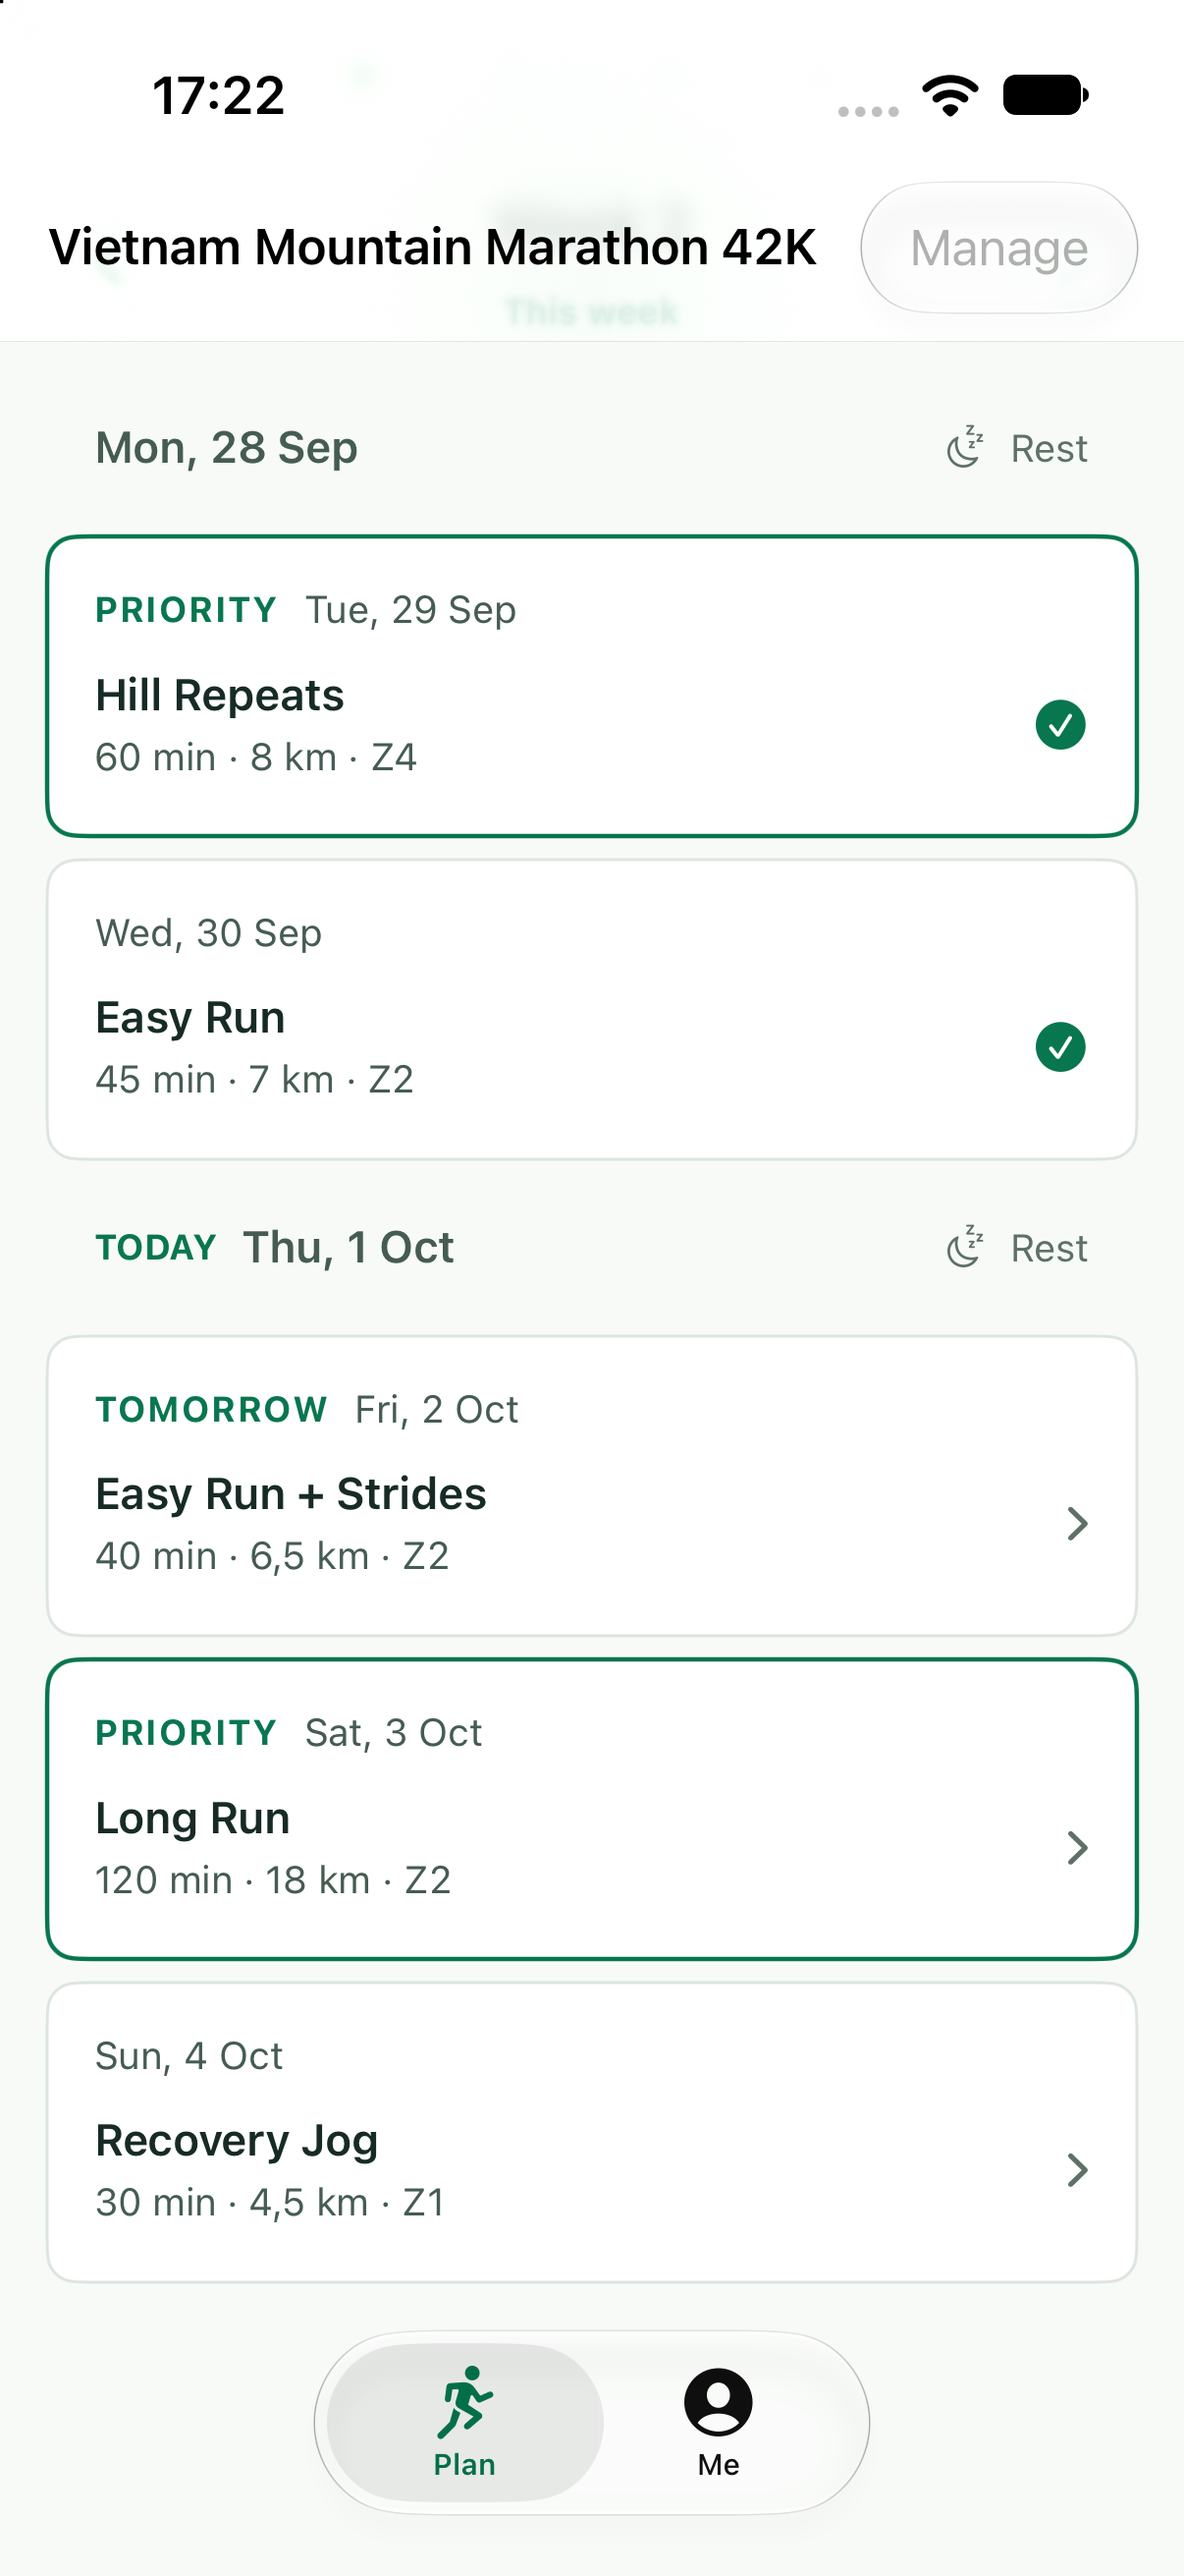
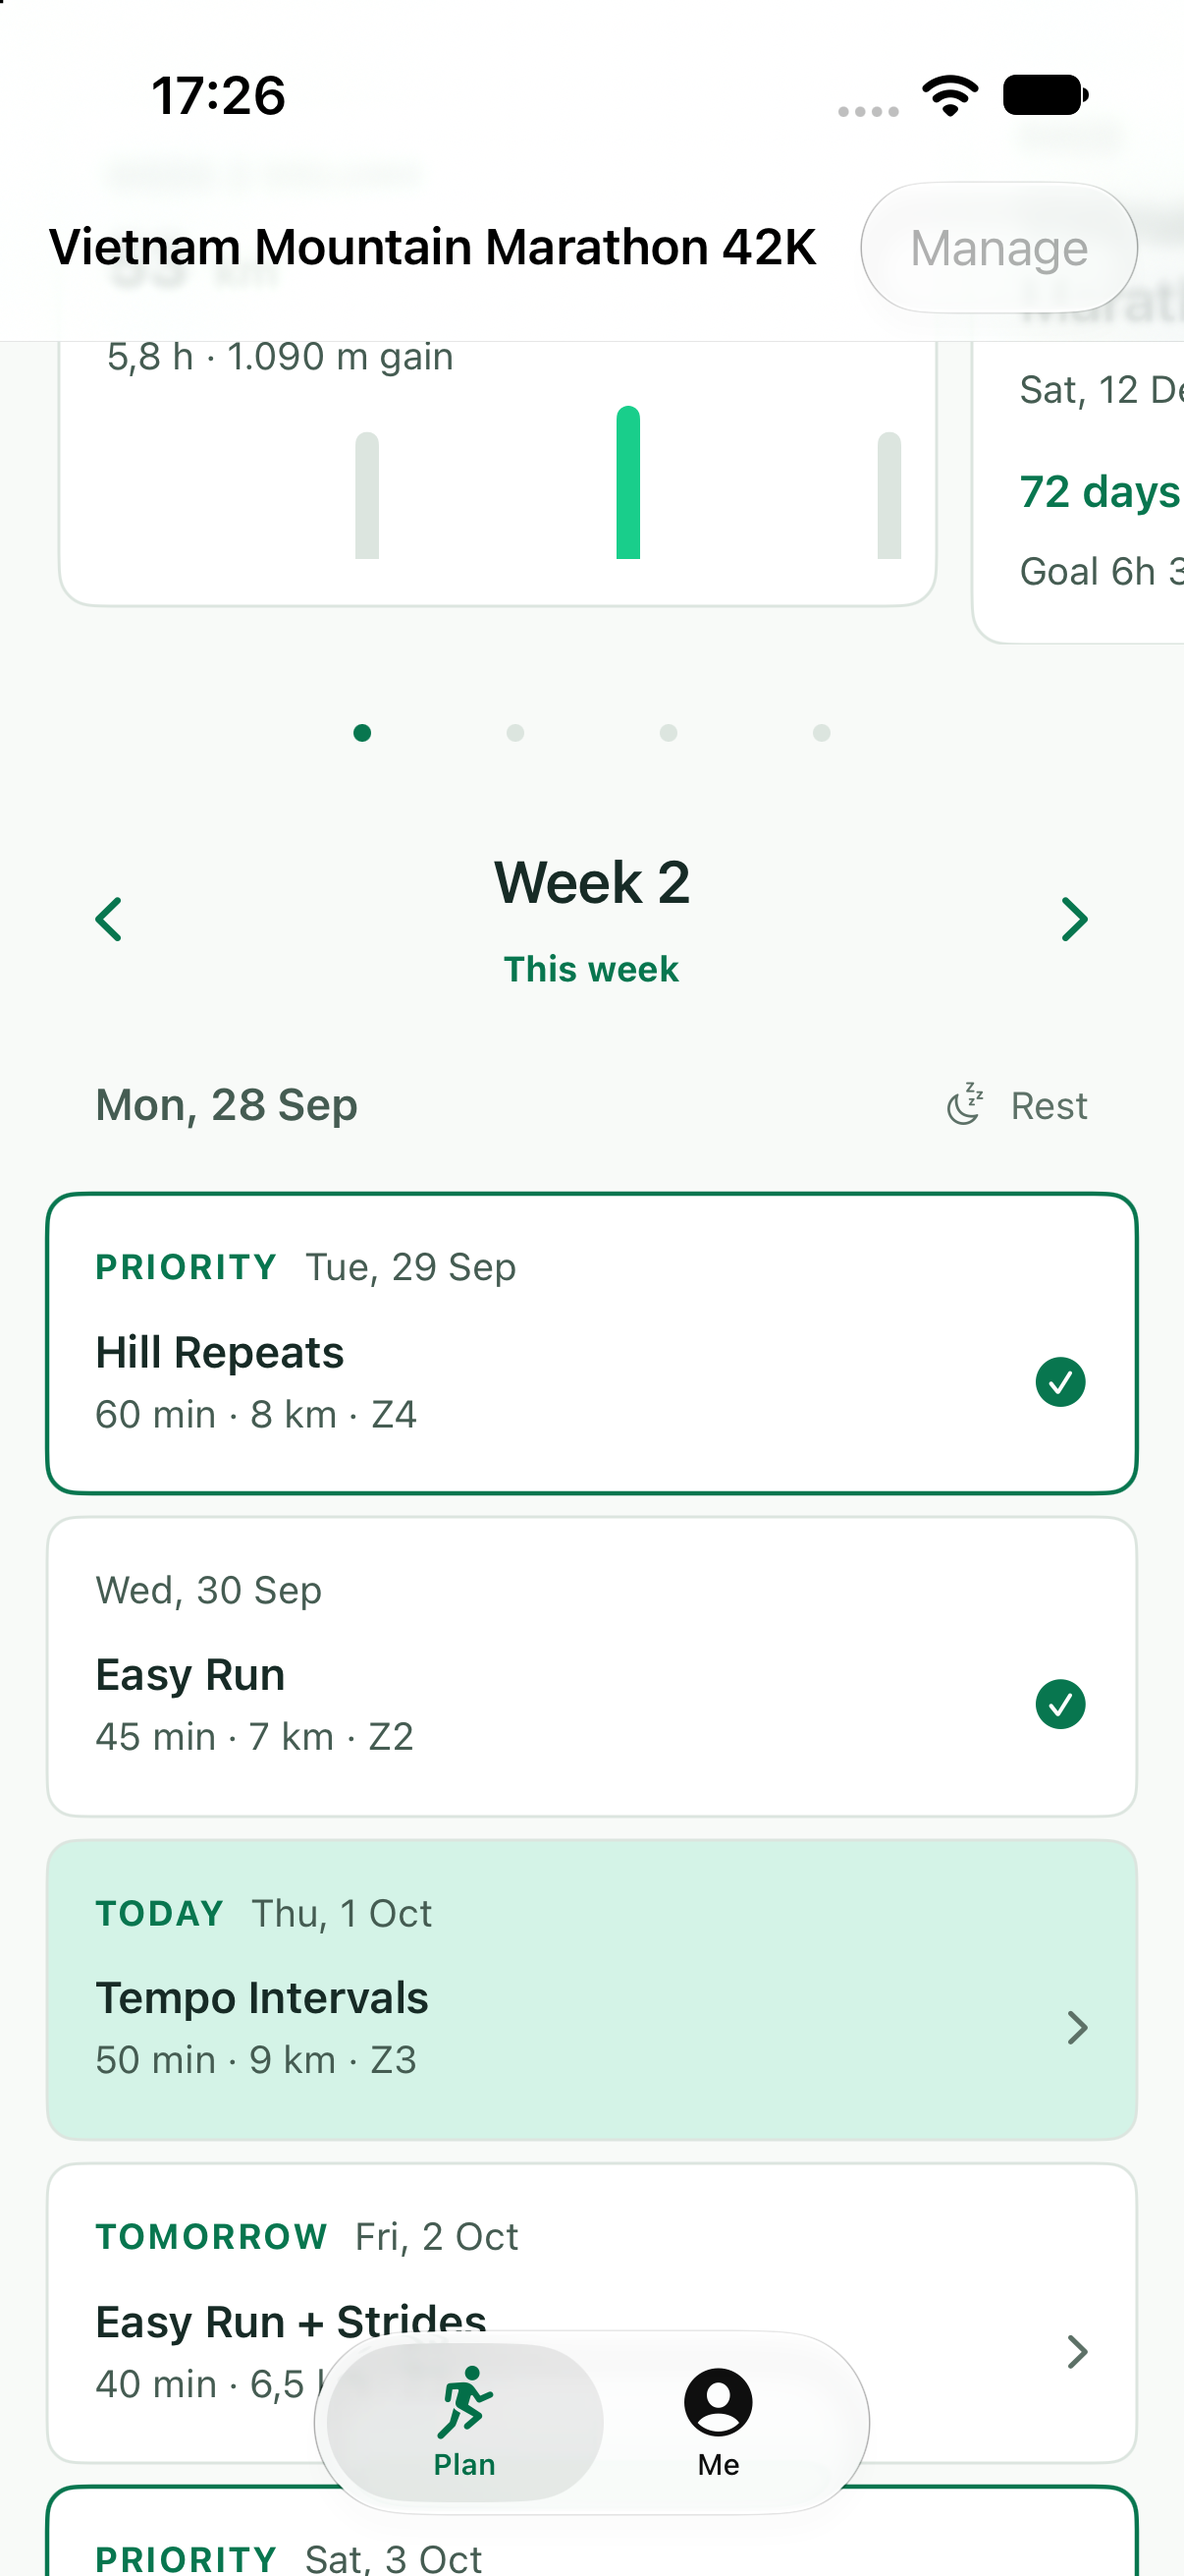
fix(ios): reliable scroll-to-today, isToday, wrapping day markers, distinct screenshots

diff --git a/ios-native/UphillAI/Features/Plan/DayRow.swift b/ios-native/UphillAI/Features/Plan/DayRow.swift
@@ -37,14 +37,12 @@ struct DayRow: View {
 
     private var workoutCard: some View {
         VStack(alignment: .leading, spacing: UH.Space.compact) {
-            HStack(spacing: UH.Space.compact) {
-                if let eyebrow = day.eyebrow {
-                    Text(eyebrow).font(UH.TextStyle.eyebrow).tracking(0.6).foregroundStyle(UH.Palette.accentInk)
+            ViewThatFits(in: .horizontal) {
+                HStack(spacing: UH.Space.compact) { markers; dateCaption }
+                VStack(alignment: .leading, spacing: 2) {
+                    HStack(spacing: UH.Space.compact) { markers }
+                    dateCaption
                 }
-                if isPriority {
-                    Text("PRIORITY").font(UH.TextStyle.eyebrow).tracking(0.6).foregroundStyle(UH.Palette.accentInk)
-                }
-                Text(dateText).font(UH.TextStyle.caption).foregroundStyle(UH.Palette.secondary)
             }
             ForEach(day.workouts) { workout in
                 Button { onSelect(workout) } label: { workoutRow(workout) }
@@ -53,12 +51,26 @@ struct DayRow: View {
         }
         .padding(UH.Space.regular)
         .frame(maxWidth: .infinity, alignment: .leading)
-        .background(day.eyebrow == "TODAY" ? UH.Palette.activeFill : UH.Palette.card,
+        .background(day.isToday ? UH.Palette.activeFill : UH.Palette.card,
                     in: RoundedRectangle(cornerRadius: UH.Radius.workoutDay))
         .overlay(
             RoundedRectangle(cornerRadius: UH.Radius.workoutDay)
                 .stroke(isPriority ? UH.Palette.accentInk : UH.Palette.line, lineWidth: isPriority ? 1.5 : 1)
         )
+    }
+
+    @ViewBuilder
+    private var markers: some View {
+        if let eyebrow = day.eyebrow {
+            Text(eyebrow).font(UH.TextStyle.eyebrow).tracking(0.6).foregroundStyle(UH.Palette.accentInk)
+        }
+        if isPriority {
+            Text("PRIORITY").font(UH.TextStyle.eyebrow).tracking(0.6).foregroundStyle(UH.Palette.accentInk)
+        }
+    }
+
+    private var dateCaption: some View {
+        Text(dateText).font(UH.TextStyle.caption).foregroundStyle(UH.Palette.secondary)
     }
 
     private func workoutRow(_ workout: Workout) -> some View {
@@ -91,7 +103,7 @@ struct DayRow: View {
         } else if w.isMissedFlag {
             Image(systemName: "xmark.circle").foregroundStyle(UH.Palette.danger)
         } else {
-            Image(systemName: "chevron.right").foregroundStyle(UH.Palette.muted).font(.footnote.weight(.semibold))
+            Image(systemName: "chevron.right").foregroundStyle(UH.Palette.muted).font(UH.TextStyle.disclosure)
         }
     }
 

diff --git a/ios-native/UphillAI/Features/Plan/PlanView.swift b/ios-native/UphillAI/Features/Plan/PlanView.swift
@@ -55,16 +55,19 @@ struct PlanView: View {
                     .padding(.vertical, UH.Space.regular)
                 }
                 .refreshable { await model.load() }
-                .onAppear { scrollToToday(proxy) }
-                .onChange(of: model.selectedWeek) { _, week in
-                    if week == model.currentWeek { scrollToToday(proxy) }
+                .task(id: "\(model.selectedWeek)-\(model.days.count)") {
+                    guard model.selectedWeek == model.currentWeek else { return }
+                    // Let the lazy list lay out its rows before scrolling.
+                    await Task.yield()
+                    try? await Task.sleep(for: .milliseconds(150))
+                    scrollToToday(proxy)
                 }
             }
         }
     }
 
     private func scrollToToday(_ proxy: ScrollViewProxy) {
-        guard let today = model.days.first(where: { $0.eyebrow == "TODAY" }) else { return }
+        guard let today = model.days.first(where: { $0.isToday }) else { return }
         if reduceMotion {
             proxy.scrollTo(today.id, anchor: .top)
         } else {

diff --git a/ios-native/UphillAI/Features/Plan/PlanViewModel.swift b/ios-native/UphillAI/Features/Plan/PlanViewModel.swift
@@ -9,6 +9,7 @@ struct PlanDay: Identifiable, Equatable {
     let eyebrow: String?
 
     var id: String { "\(week)-\(weekday.rawValue)" }
+    var isToday: Bool { eyebrow == "TODAY" }
     var isRest: Bool { PlanSummary.isRestDay(workouts) }
     /// Rest days collapse unless something on them was logged.
     var isCollapsed: Bool { isRest && !workouts.contains { $0.isDone || $0.isMissedFlag } }

diff --git a/ios-native/UphillAI/DesignSystem/Tokens.swift b/ios-native/UphillAI/DesignSystem/Tokens.swift
@@ -42,6 +42,7 @@ enum UH {
         static let body = Font.body
         static let label = Font.subheadline.weight(.semibold)
         static let caption = Font.footnote
+        static let disclosure = Font.footnote.weight(.semibold)
         static let eyebrow = Font.caption.weight(.bold)
         static let metric = Font.title2.weight(.bold).monospacedDigit()
     }
